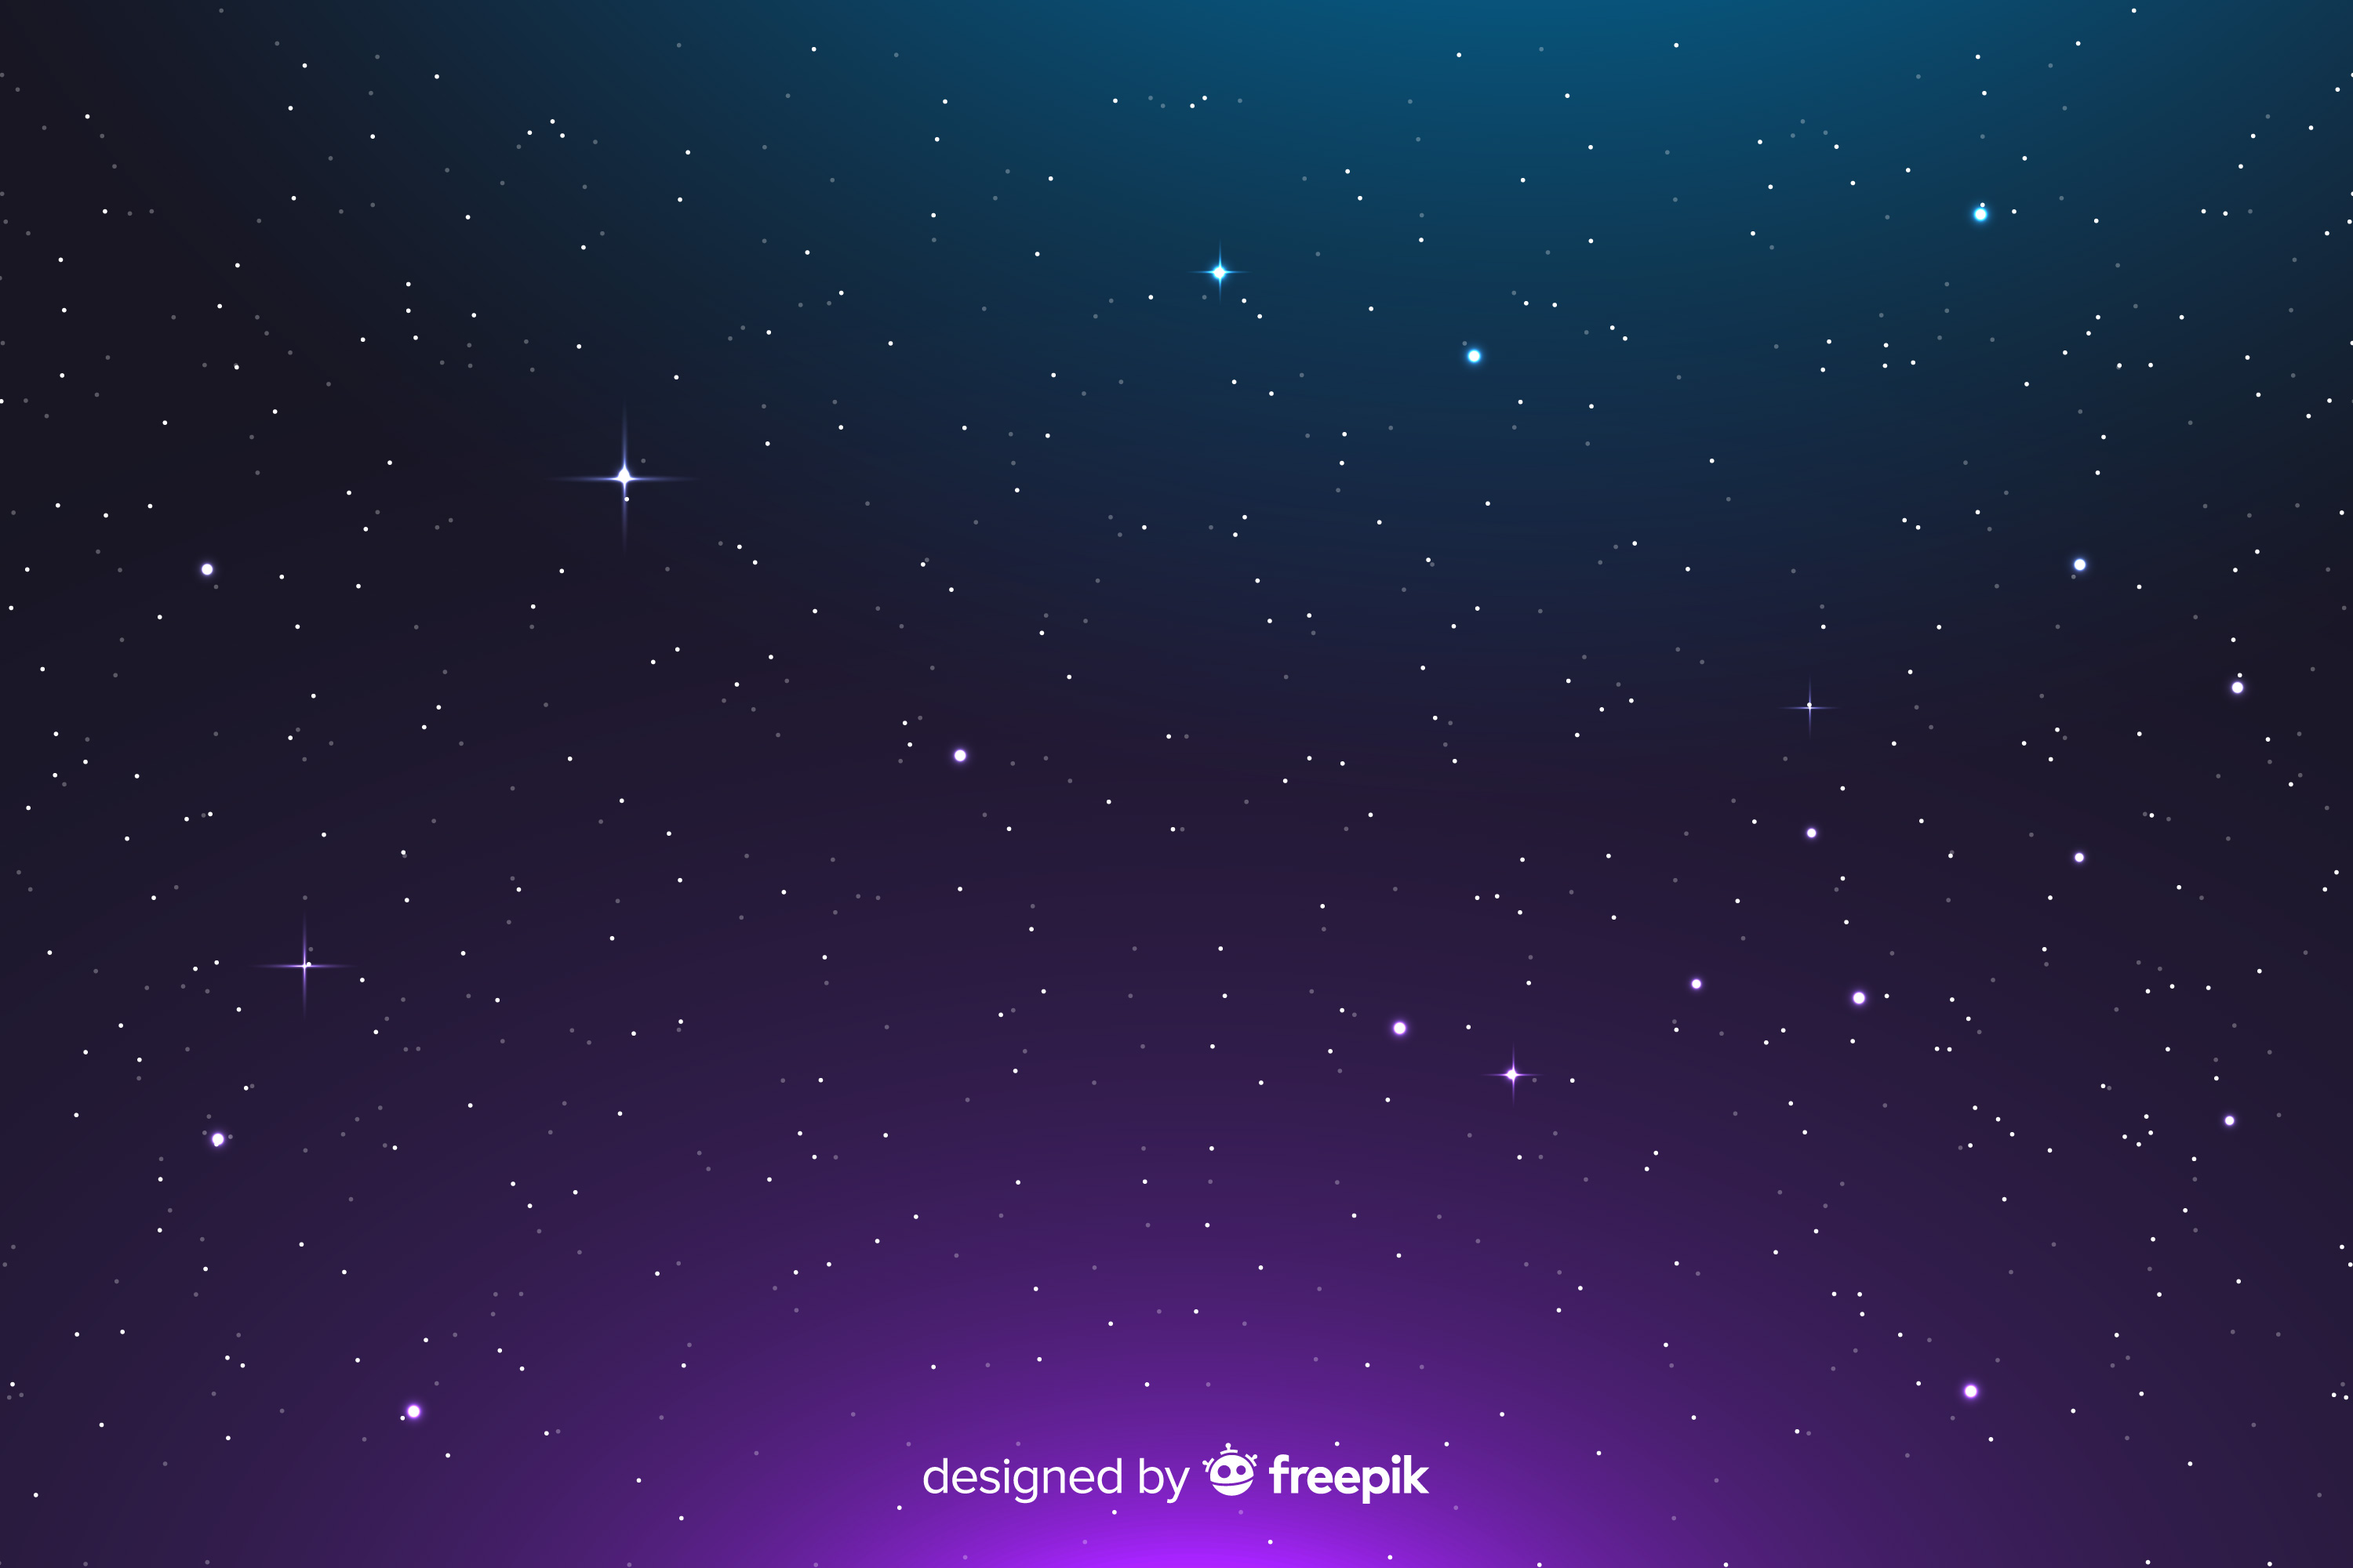
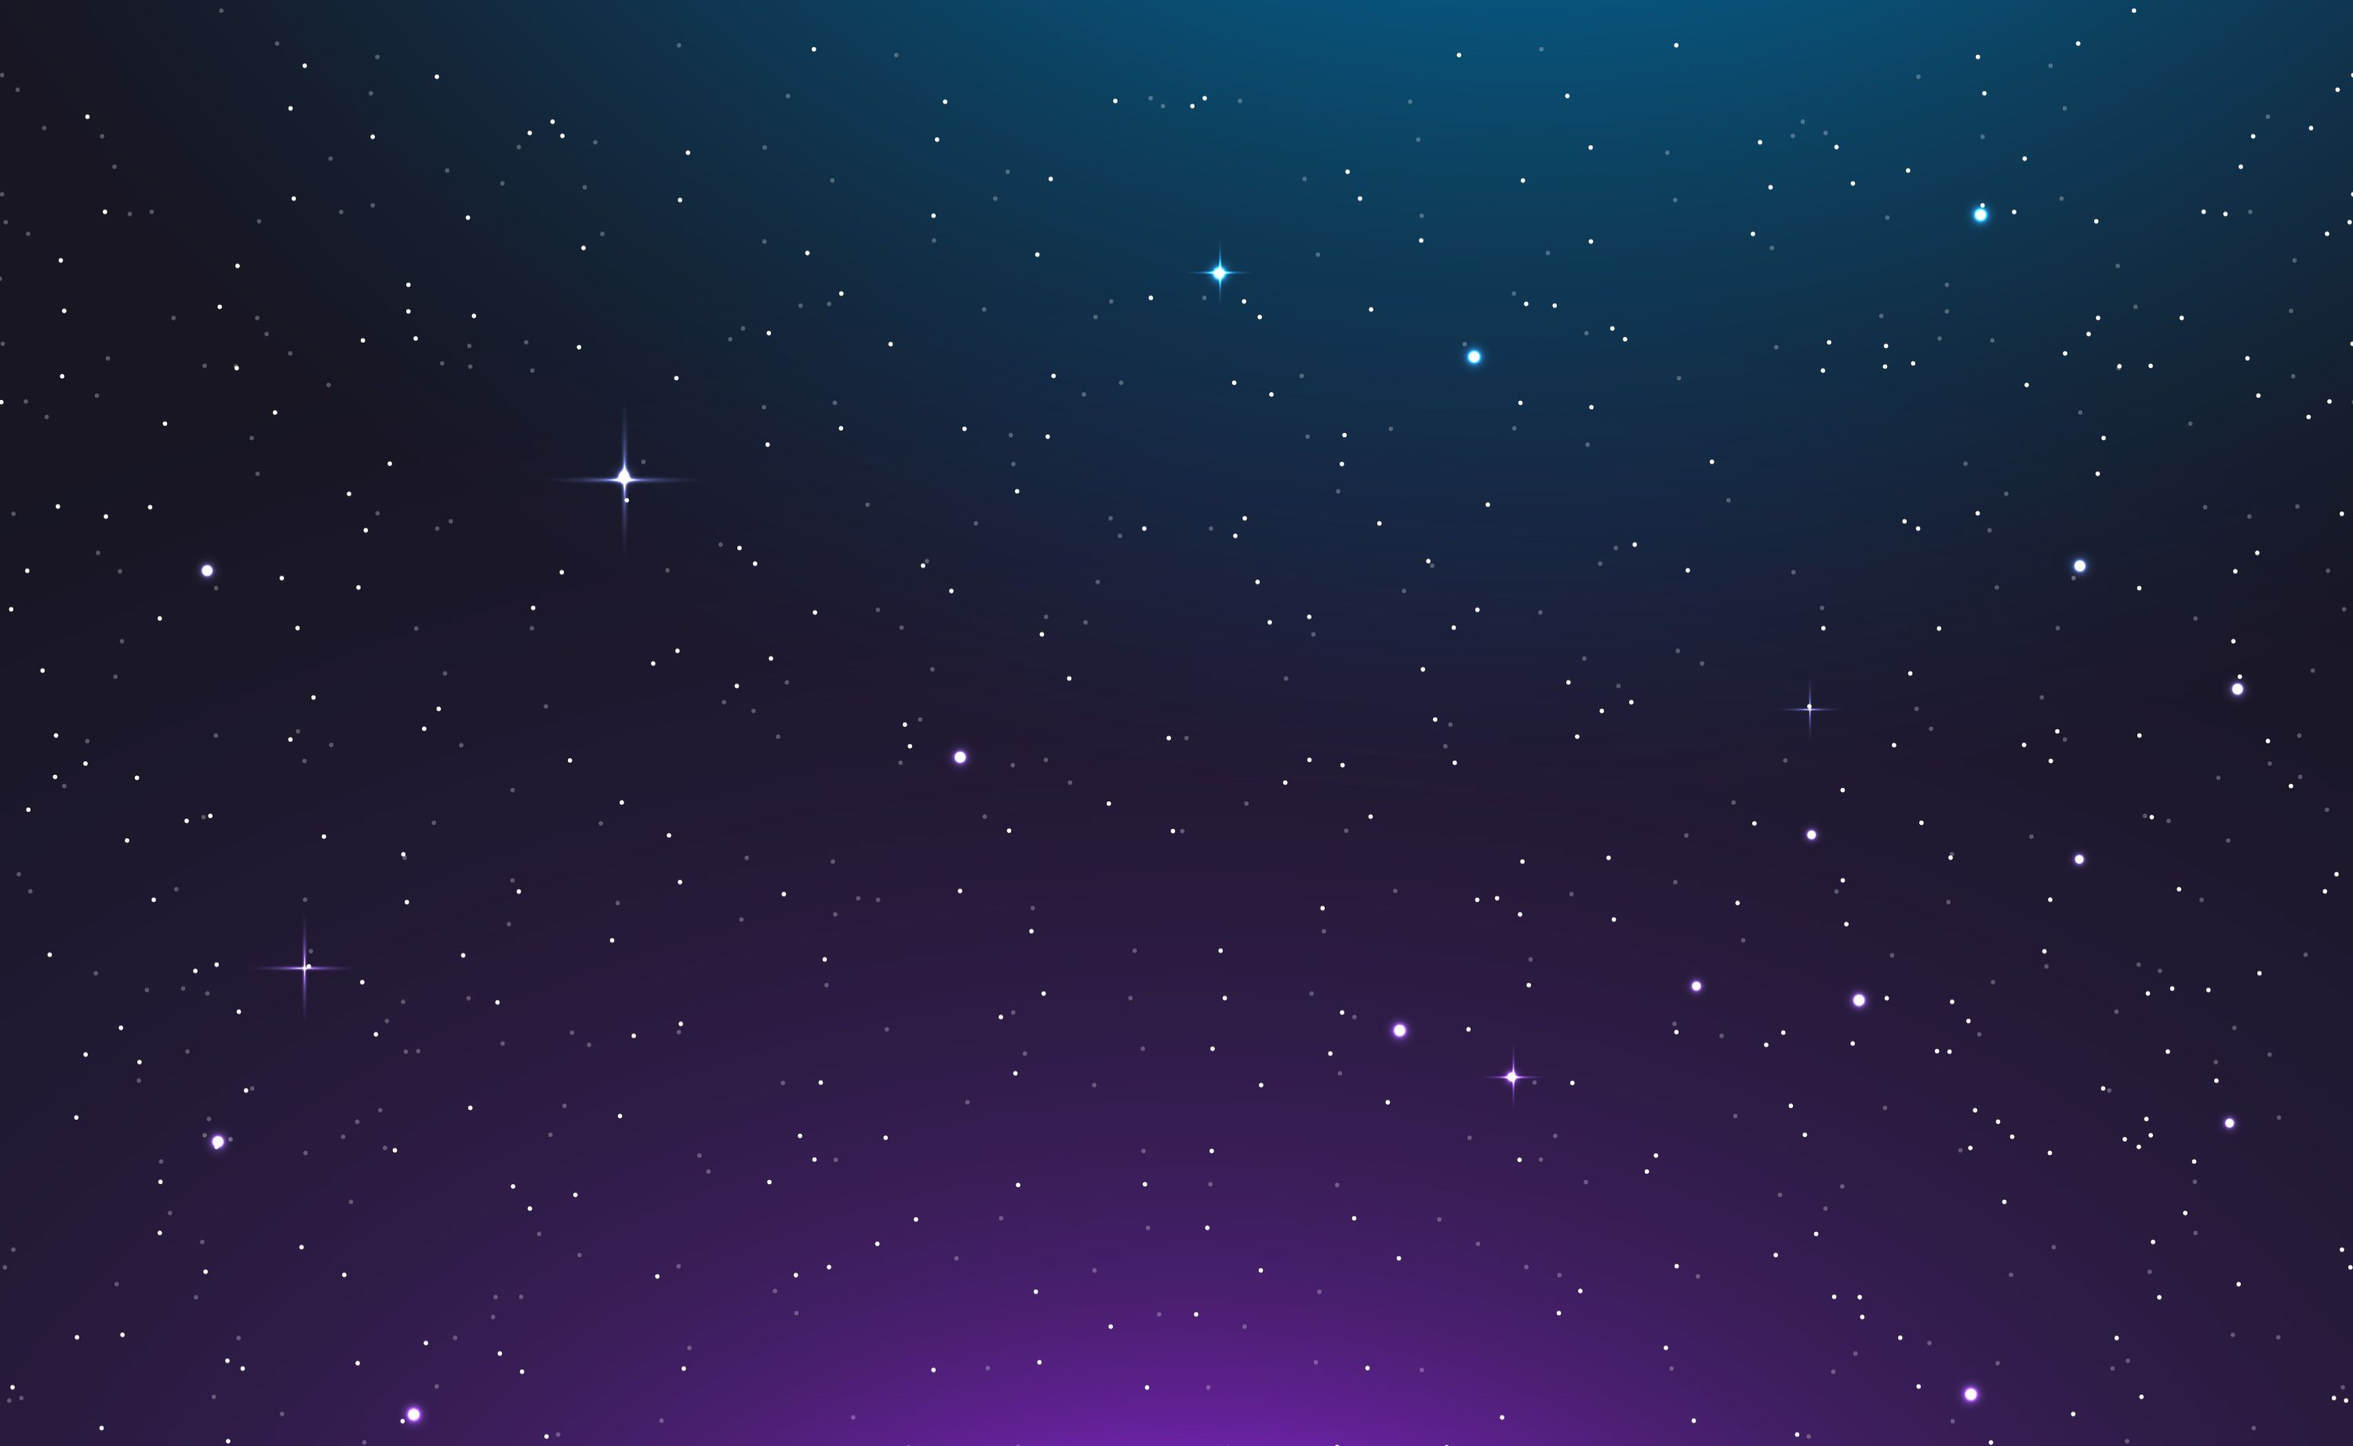
Add background image to header and main-section

diff --git a/style/style.css b/style/style.css
@@ -1,1 +1,1 @@
-html,body,div,span,applet,object,iframe,h1,h2,h3,h4,h5,h6,p,blockquote,pre,a,abbr,acronym,address,big,cite,code,del,dfn,em,img,ins,kbd,q,s,samp,small,strike,strong,sub,sup,tt,var,b,u,i,center,dl,dt,dd,ol,ul,li,fieldset,form,label,legend,table,caption,tbody,tfoot,thead,tr,th,td,article,aside,canvas,details,embed,figure,figcaption,footer,header,hgroup,menu,nav,output,ruby,section,summary,time,mark,audio,video{margin:0;padding:0;border:0;font-size:100%;font:inherit;vertical-align:baseline}article,aside,details,figcaption,figure,footer,header,hgroup,menu,nav,section{display:block}body{line-height:1}ol,ul{list-style:none}*,*::before,*::after{padding:0;margin:0;box-sizing:border-box}html,body{width:100%;min-height:100%}a{color:inherit;text-decoration:none}button{font-family:inherit;border:none;background-color:transparent}html{scroll-behavior:smooth}body{font-family:"Josefin Sans",sans-serif;color:#fefefe;background-color:#000}strong{font-weight:700}.container-col{width:100%}.header-container{padding:1.8% 3%;width:100%;background-color:#070625;border-bottom:1px solid rgba(254,254,254,.5)}.header-container>.nav{display:flex;justify-content:space-between;align-items:center}.header-container>.nav>.logo{font-size:2em;font-weight:700;line-height:1em;letter-spacing:.068em;transition:250ms}.header-container>.nav>.logo:hover{color:#b2b2b2}.header-container>.nav>.menu{display:flex;align-items:center;justify-content:space-between;width:20%;gap:1.3%}.header-container>.nav>.menu .link{font-size:1.375em;transition:250ms}.header-container>.nav>.menu .link:hover{color:#b2b2b2}.main-btn{font-size:1em;color:#fefefe;cursor:pointer}/*# sourceMappingURL=style.css.map */
+html,body,div,span,applet,object,iframe,h1,h2,h3,h4,h5,h6,p,blockquote,pre,a,abbr,acronym,address,big,cite,code,del,dfn,em,img,ins,kbd,q,s,samp,small,strike,strong,sub,sup,tt,var,b,u,i,center,dl,dt,dd,ol,ul,li,fieldset,form,label,legend,table,caption,tbody,tfoot,thead,tr,th,td,article,aside,canvas,details,embed,figure,figcaption,footer,header,hgroup,menu,nav,output,ruby,section,summary,time,mark,audio,video{margin:0;padding:0;border:0;font-size:100%;font:inherit;vertical-align:baseline}article,aside,details,figcaption,figure,footer,header,hgroup,menu,nav,section{display:block}body{line-height:1}ol,ul{list-style:none}*,*::before,*::after{padding:0;margin:0;box-sizing:border-box}html,body{width:100%;min-height:100%}a{color:inherit;text-decoration:none}button{font-family:inherit;border:none;background-color:transparent}*::selection{color:#fefefe;background-color:#6d2ed5}html{scroll-behavior:smooth;scrollbar-width:thin;scrollbar-color:#fefefe rgba(81,80,102,.5);scrollbar-face-color:#fefefe;scrollbar-track-color:rgba(81,80,102,.5)}html::-webkit-scrollbar{width:.5em}html::-webkit-scrollbar-thumb{background-color:#fefefe}html::-webkit-scrollbar-track{background-color:rgba(81,80,102,.5)}body{font-family:"Josefin Sans",sans-serif;color:#fefefe;background-color:#000}strong{font-weight:700}.container-col{width:100%;height:100%}.header-container{padding:2.5% 3% 1.8%;width:100%;border-bottom:1px solid rgba(254,254,254,.3);background:#070625 url(../images/background-header.jpg) center/cover no-repeat}.header-container>.nav{display:flex;justify-content:space-between;align-items:center}.header-container>.nav>.logo{font-size:2em;font-weight:700;line-height:1em;letter-spacing:.068em;transition:250ms}.header-container>.nav>.logo:hover{color:#b2b2b2}.header-container>.nav>.menu{display:flex;align-items:center;justify-content:space-between;width:20%;gap:1.3%}.header-container>.nav>.menu .link{font-size:1.375em;transition:250ms}.header-container>.nav>.menu .link:hover{color:#b2b2b2}.main-btn{font-size:1em;color:#fefefe;cursor:pointer}.main-section{display:flex;flex-direction:column;align-items:center;padding:4%;width:100%;border-bottom:1px solid rgba(254,254,254,.3)}.main-section.-bg-img{background:#070625 url(../images/background.jpg) top/cover fixed no-repeat}.main-section>.section-title{margin-bottom:1.35em}.section-title{font-size:2.375em;font-weight:700;letter-spacing:.033em}.section-title>.highlight{padding:.24em .12em 1px;font-size:1.1em;text-transform:uppercase;background-color:#070625;border:1px solid rgba(254,254,254,.3)}/*# sourceMappingURL=style.css.map */

diff --git a/index.html b/index.html
@@ -43,7 +43,7 @@
         </nav>
       </header>
 
-      <main class="main-section">
+      <main class="main-section -bg-img">
         <h1 class="section-title">
           <span class="highlight">A</span>stronomy <span class="highlight">P</span>icture <span class="highlight">o</span>f the <span class="highlight">D</span>ay
         </h1>
@@ -113,7 +113,7 @@
         </section> <!-- .wrapper-content -->
       </main>
 
-      <section class="main-section">
+      <section class="main-section" id="about">
         <h2 class="section-title -medium">About</h2>
 
         <div class="wrapper">

diff --git a/style/components/_header-container.scss b/style/components/_header-container.scss
@@ -1,8 +1,8 @@
 .header-container {
-  padding: 1.8% 3%;
+  padding: 2.5% 3% 1.8%;
   width: 100%;
-  background-color: $clr-oxford-blue;
-  border-bottom: 1px solid rgba($clr-white, .5);
+  border-bottom: 1px solid rgba($clr-white, .3);
+  background: $clr-oxford-blue url(../images/background-header.jpg) center/cover no-repeat;
 
   > .nav {
     display: flex;
@@ -11,7 +11,6 @@
   }
 
   > .nav > .logo {
-    // margin-top: .3em;
     font: {
       size: 2em; // 32px
       weight: 700;

diff --git a/style/base/_base.scss b/style/base/_base.scss
@@ -2,8 +2,14 @@
  * General styles.
  */
 
+*::selection {
+  color: $clr-white;
+  background-color: $clr-blue-violet;
+}
+
 html {
   scroll-behavior: smooth;
+  @include scrollbars(.5em, $clr-white);
 }
 
 body {
@@ -18,4 +24,5 @@ strong {
 
 .container-col {
   width: 100%;
+  height: 100%;
 }

diff --git a/style/constants/_colors.scss b/style/constants/_colors.scss
@@ -1,3 +1,5 @@
+// Pallete: https://coolors.co/070625-fefefe-6d2ed5-838495
+
 $clr-oxford-blue: #070625;
 $clr-blue-violet: #6d2ed5;
 $clr-roman-silver: #838495;

diff --git a/style/components/_main.scss b/style/components/_main.scss
@@ -1,2 +1,4 @@
 @import '_header-container.scss';
 @import '_main-btn';
+@import '_main-section';
+@import '_section-title';

diff --git a/style/constants/_main.scss b/style/constants/_main.scss
@@ -1,2 +1,3 @@
 @import '_colors';
 @import '_fonts';
+@import '_prefixes';
